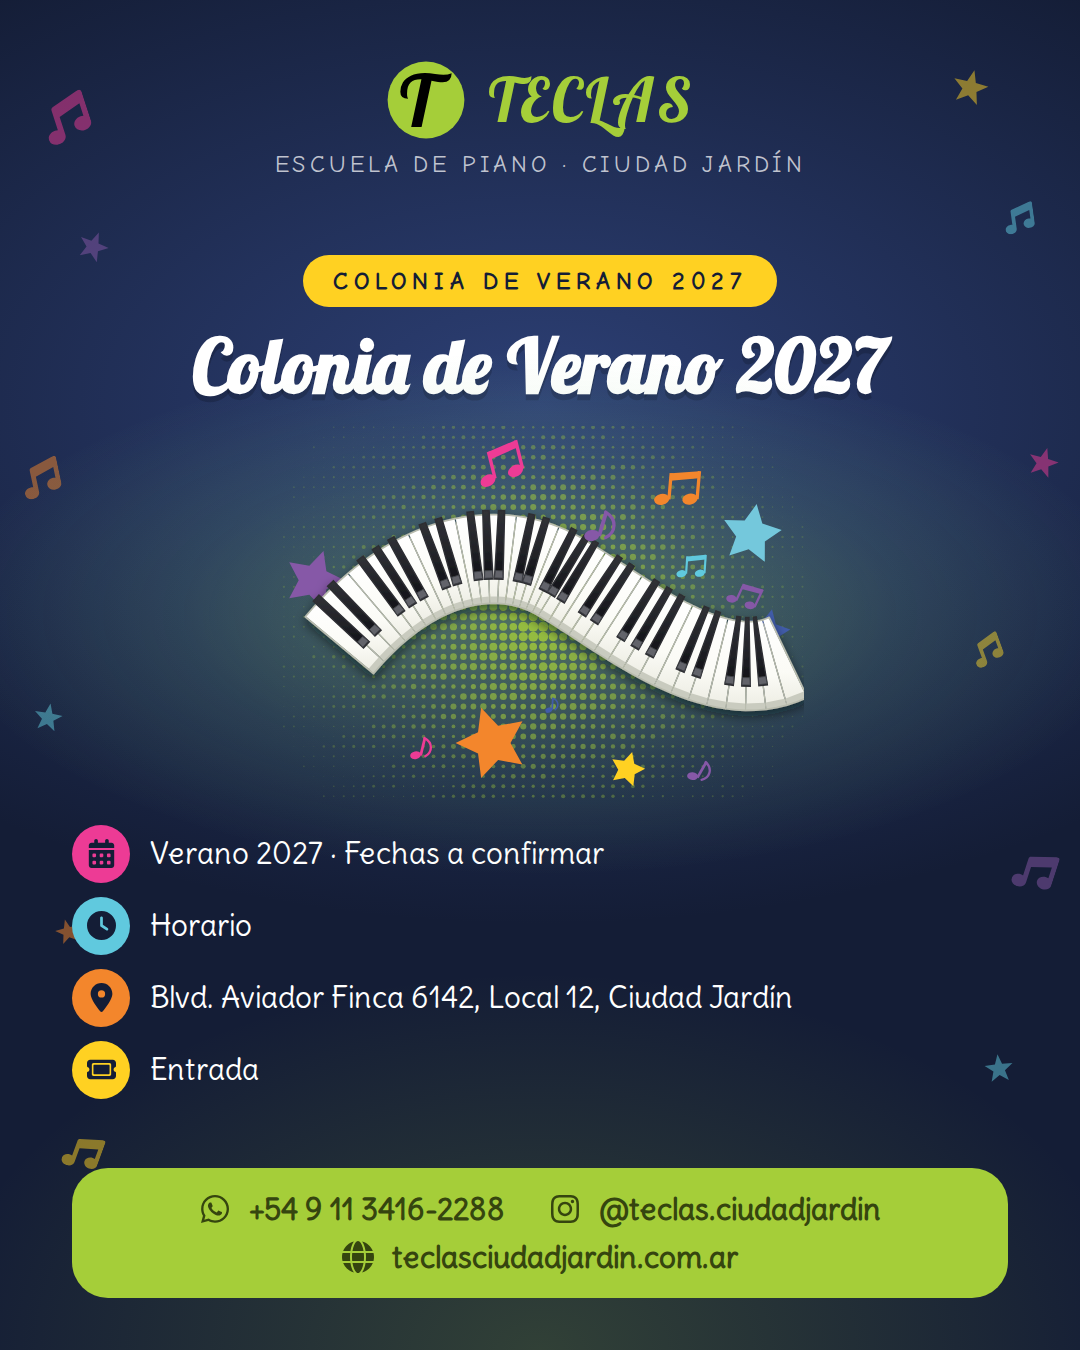
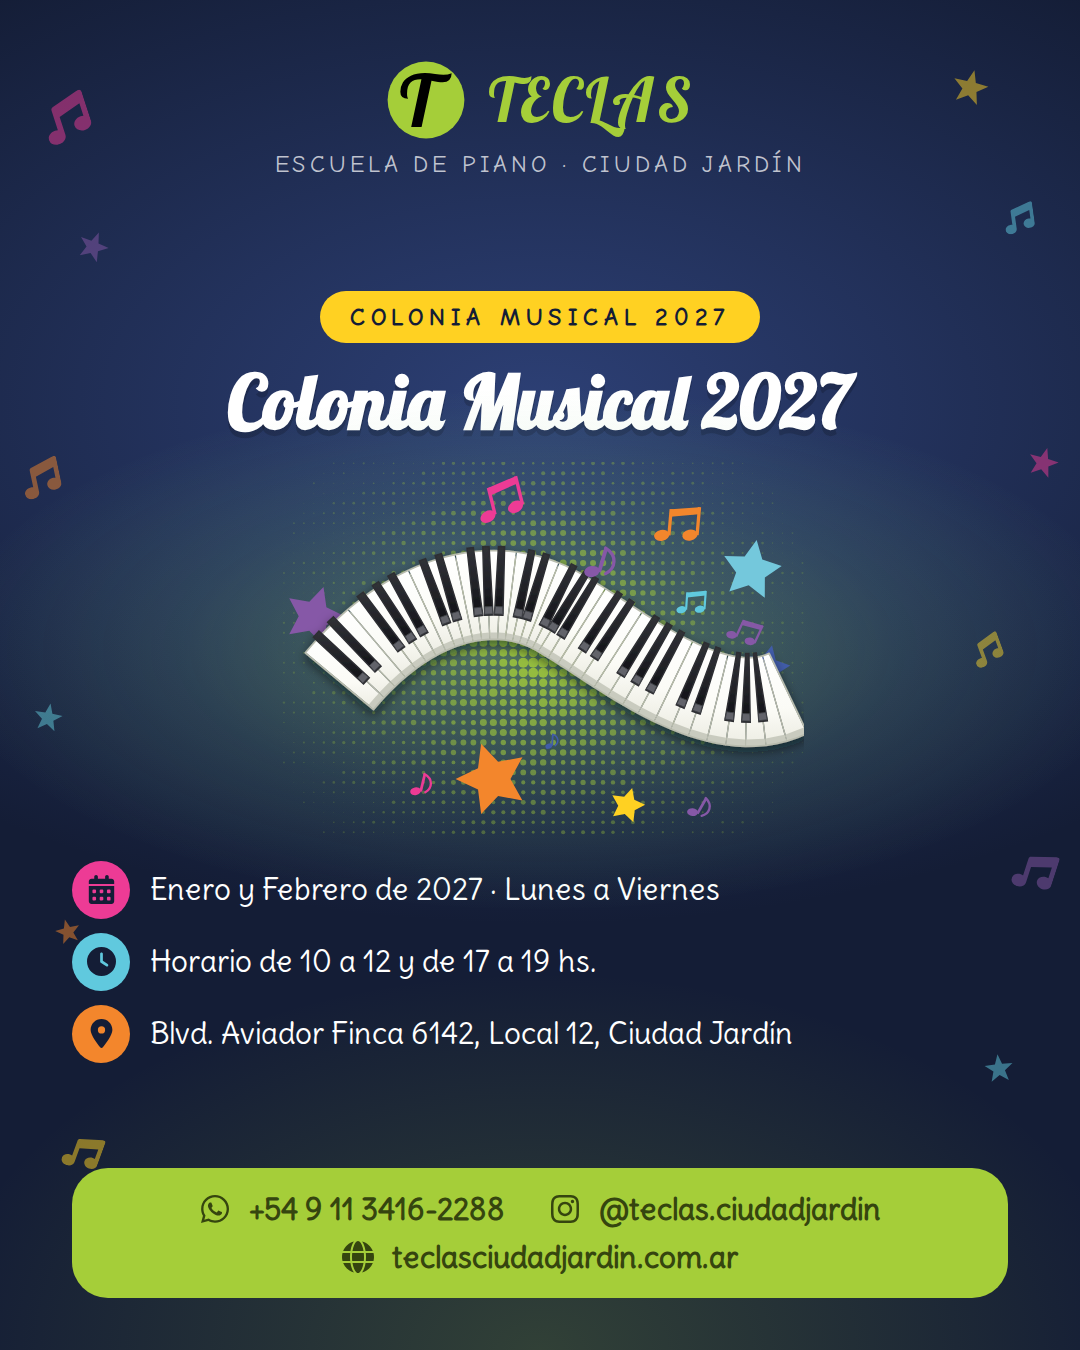
content(events): actualizar la Colonia 2027 con la data de la escuela
Pasa a llamarse «Colonia Musical 2027» (la URL sigue siendo
colonia-verano-2027, ya publicada y en el sitemap): 6 semanas de lunes a
viernes en enero y febrero, en dos turnos de 10 a 12 y de 17 a 19 hs.

Suma las actividades confirmadas — juegos musicales, canto, percusión,
coreografías, piano para todos, taller literario, juegos de ingenio,
manualidades y arte, muestras con la familia — y saca las menciones a
juegos al aire libre: todo es lúdico y recreativo pero dentro del marco
de la educación musical.

El flyer se regenera desde lib/events; además, una fila de info sin su
fact correspondiente ahora se omite en lugar de imprimir «Entrada» sola.

Claude-Session: https://claude.ai/code/session_011FhPkVyJWVkZ8RZNveQagf

Changed region(s): [[0.0611, 0.1867, 0.825, 0.8089]]

diff --git a/lib/events/index.ts b/lib/events/index.ts
@@ -46,29 +46,38 @@ export function whatsappUrl(message: string): string {
 
 export const events: TeclasEvent[] = [
   {
+    // La URL sigue siendo `colonia-verano-2027` (ya publicada y en el sitemap)
+    // aunque la escuela pasó a llamarla «Colonia Musical».
     slug: 'colonia-verano-2027',
-    title: 'Colonia de Verano 2027',
-    subtitle: 'Música, juegos y baile para las vacaciones',
+    title: 'Colonia Musical 2027',
+    subtitle: 'Seis semanas de juegos musicales, canto, percusión y piano',
     status: 'upcoming',
-    date: 'Verano 2027 · Fechas a confirmar',
+    date: 'Enero y Febrero de 2027 · Lunes a Viernes',
     summary:
-      'Colonia de verano con música, juegos y baile para los más chicos durante las vacaciones.',
+      'Seis semanas de juegos musicales, canto, percusión, coreografías y piano para todos los chicos.',
     location: 'TECLAS — Blvd. Aviador Finca 6142, Local 12, Ciudad Jardín.',
     image: '/events/colonia-verano-2026.jpg',
-    imageAlt: 'Grupo de chicos de la colonia de verano de TECLAS en el parque',
+    imageAlt:
+      'Chicos de la colonia de TECLAS sentados en ronda con instrumentos de percusión',
     ctaLabel: 'Inscribirme por WhatsApp',
-    whatsappMessage:
-      '¡Hola TECLAS! Quiero anotarme a la Colonia de Verano 2027.',
+    whatsappMessage: '¡Hola TECLAS! Quiero anotarme a la Colonia Musical 2027.',
     metaDescription:
-      'Colonia de Verano 2027 en TECLAS Ciudad Jardín: música, juegos y baile para las vacaciones. Fechas a confirmar.',
+      'Colonia Musical 2027 en TECLAS Ciudad Jardín: seis semanas de juegos musicales, canto, percusión, coreografías y piano, de lunes a viernes en enero y febrero.',
     body: [
-      'La Colonia de Verano es la propuesta de TECLAS para las vacaciones: música, juegos, baile y movimiento para los más chicos.',
-      'Cada jornada combina actividades musicales con juegos al aire libre, para que el verano se sienta como vacaciones de verdad y a la vez la música siga sonando.',
-      'Las fechas de la edición se están confirmando. Si te quedó gustando, dejanos un mensaje y te avisamos apenas estén.',
+      'La Colonia Musical de TECLAS dura seis semanas: de lunes a viernes durante enero y febrero de 2027, en dos turnos — de 10 a 12 y de 17 a 19 hs.',
+      'Cada jornada se arma con juegos musicales, canto, percusión y coreografías. Todos los chicos tienen la posibilidad de tocar el piano, y quien quiera profundizar en el instrumento también puede hacerlo.',
+      'A eso se suman actividades especiales: un taller literario en el que se musicalizan poesías y producciones de los propios chicos, juegos de ingenio, y manualidades y arte.',
+      'Todas las actividades son lúdicas y recreativas, siempre dentro del marco de la educación musical. Durante la colonia se realizan muestras y se invita a las familias a verlas.',
     ],
     facts: [
-      { label: 'Fechas', value: 'A confirmar' },
-      { label: 'Ediciones', value: 'Enero y Febrero' },
+      { label: 'Fechas', value: 'Enero y Febrero de 2027' },
+      { label: 'Duración', value: '6 semanas, de lunes a viernes' },
+      { label: 'Horario', value: 'de 10 a 12 y de 17 a 19 hs.' },
+      {
+        label: 'Actividades',
+        value:
+          'Juegos musicales, canto, percusión, coreografías y piano. Taller literario, juegos de ingenio, manualidades y arte.',
+      },
       { label: 'Lugar', value: 'Blvd. Aviador Finca 6142, Local 12' },
       { label: 'Dirigido a', value: 'Niños y jóvenes' },
     ],

diff --git a/lib/seo/colonia2027.ts b/lib/seo/colonia2027.ts
@@ -1,21 +1,22 @@
 /**
- * Structured data for the upcoming 2027 "Colonia de Verano".
+ * Structured data for the upcoming 2027 "Colonia Musical".
  *
- * Same shape as `event.ts`; the address mirrors `localBusiness.ts`. The dates
- * are still to be confirmed by the school, so `startDate` carries the season
- * (which edits this month) and the page's own `facts` say the exact dates are
- * pending.
+ * Same shape as `event.ts`; the address mirrors `localBusiness.ts`. The school
+ * confirmed six weeks of Monday-to-Friday activity across January and February,
+ * in two shifts (10–12 and 17–19 hs.); the exact opening day is still pending,
+ * so the range starts on the first Monday of January and runs the six weeks
+ * from there.
  */
 export const colonia2027JsonLd = {
   '@context': 'https://schema.org',
   '@type': 'Event',
-  name: 'Colonia de Verano 2027',
+  name: 'Colonia Musical 2027',
   url: 'https://teclasciudadjardin.com.ar/events/colonia-verano-2027',
-  startDate: '2027-01-04T09:00:00-03:00',
-  // Recommended by Google and previously absent. The exact dates are still
-  // pending, so this mirrors the 2026 edition's shape: a season ending on the
-  // last Friday of February, at the same 13:00 close.
-  endDate: '2027-02-26T13:00:00-03:00',
+  startDate: '2027-01-04T10:00:00-03:00',
+  // Recommended by Google and previously absent. Six weeks from the first
+  // Monday of January close on Friday 12 February, at the end of the
+  // afternoon shift.
+  endDate: '2027-02-12T19:00:00-03:00',
   eventAttendanceMode: 'https://schema.org/OfflineEventAttendanceMode',
   eventStatus: 'https://schema.org/EventScheduled',
   location: {
@@ -42,7 +43,7 @@ export const colonia2027JsonLd = {
   },
   image: 'https://teclasciudadjardin.com.ar/events/colonia-verano-2026.jpg',
   description:
-    'Colonia de verano en TECLAS Ciudad Jardín: música, juegos y tiempo al aire libre para chicos y jóvenes. Fechas a confirmar.',
+    'Colonia Musical en TECLAS Ciudad Jardín: seis semanas de juegos musicales, canto, percusión, coreografías y piano para chicos y jóvenes, de lunes a viernes en enero y febrero.',
   offers: {
     '@type': 'Offer',
     url: 'https://teclasciudadjardin.com.ar/events/colonia-verano-2027',
